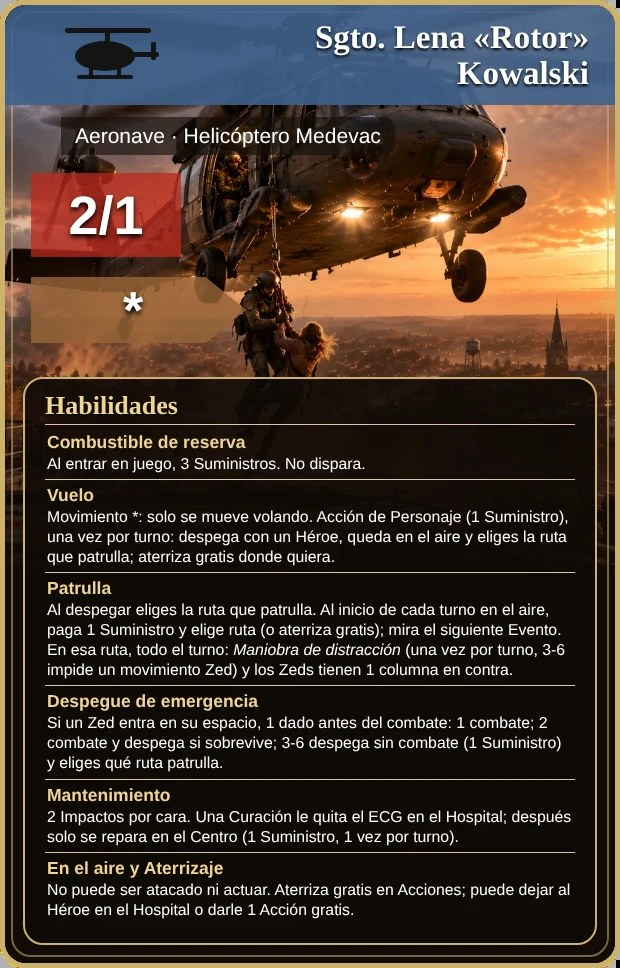
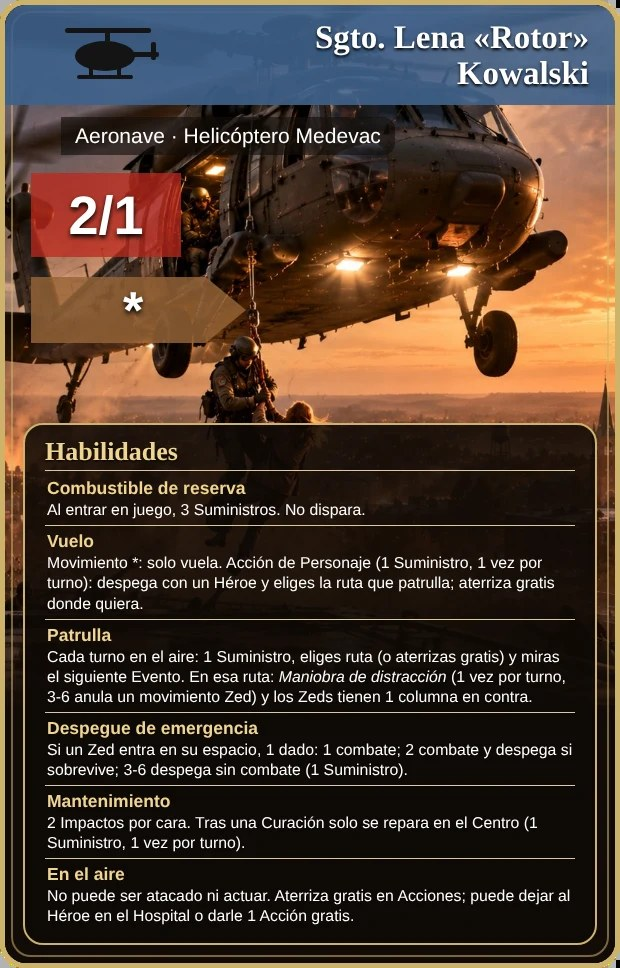
Carta del Helicóptero Medevac: textos resumidos y más espacio para la ilustración
Claude-Session: https://claude.ai/code/session_01KmRiLam16qxK6v4ebdfK1d

diff --git a/sw.js b/sw.js
@@ -1,7 +1,7 @@
 /* Service worker: permite instalar la web como app y jugar sin conexión.
    Código (html/js/css): red primero, con copia local de reserva. Imágenes y audio: caché primero. */
 'use strict';
-const CACHE = 'doz3-v54';
+const CACHE = 'doz3-v55';
 const SHELL = ['./', 'index.html', 'style.css', 'manifest.webmanifest', 'icons/icon-192.png', 'icons/icon-512.png', 'assets/portada.jpg', 'assets/fondo_nueva.webp', 'assets/fondo_ranking.webp',
   'js/version.js', 'js/data.js', 'js/events.js', 'js/dest.js', 'js/evlog.js', 'js/preview.js', 'js/obituario.js', 'js/engine.js', 'js/game.js', 'js/phases.js', 'js/actions.js', 'js/cardtext.js', 'js/ui.js', 'js/anim.js',
   'js/expansions.js', 'js/expansions2.js', 'js/sfx.js', 'js/sound.js', 'js/opciones.js', 'js/voz.js', 'js/ost.js', 'assets/sonidos/letras/letras.js', 'assets/sonidos/efectos/sfx_disparo.mp3', 'assets/sonidos/efectos/sfx_disparo_largo.mp3', 'js/mapzoom.js', 'js/seedcode.js', 'js/save.js', 'js/main.js', 'js/bot.js'];

diff --git a/js/version.js b/js/version.js
@@ -1,2 +1,2 @@
 /* Fecha y hora de la última build (hora de Madrid). Se actualiza con cada cambio publicado. */
-const BUILD_TIME = '2026-11-01 00:40';
+const BUILD_TIME = '2026-11-01 01:00';

diff --git a/CHANGELOG.md b/CHANGELOG.md
@@ -2,6 +2,11 @@
 
 Registro de cambios por publicación (push a `main`). Lo más reciente, arriba. Cada entrada lleva la misma fecha y hora que `BUILD_TIME` de `js/version.js`.
 
+## 2026-11-01 01:00
+
+### Cambios
+- **Carta del Helicóptero Medevac:** textos de habilidades resumidos para que la ilustración ocupe más espacio (la imagen pasa de ~370 a ~430 px de alto visibles). El contenido de las reglas no cambia.
+
 ## 2026-11-01 00:40
 
 ### Cambios
